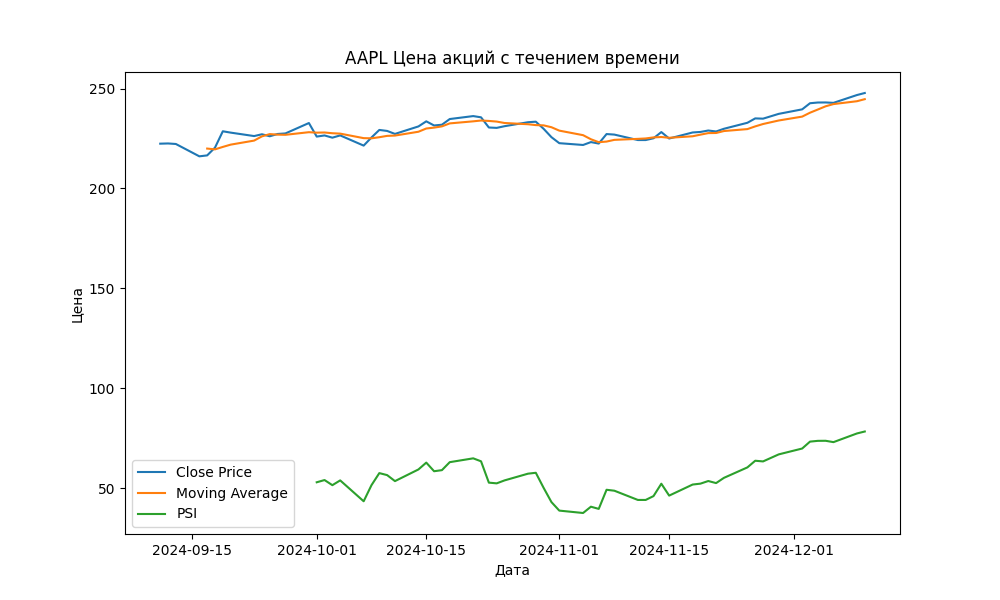
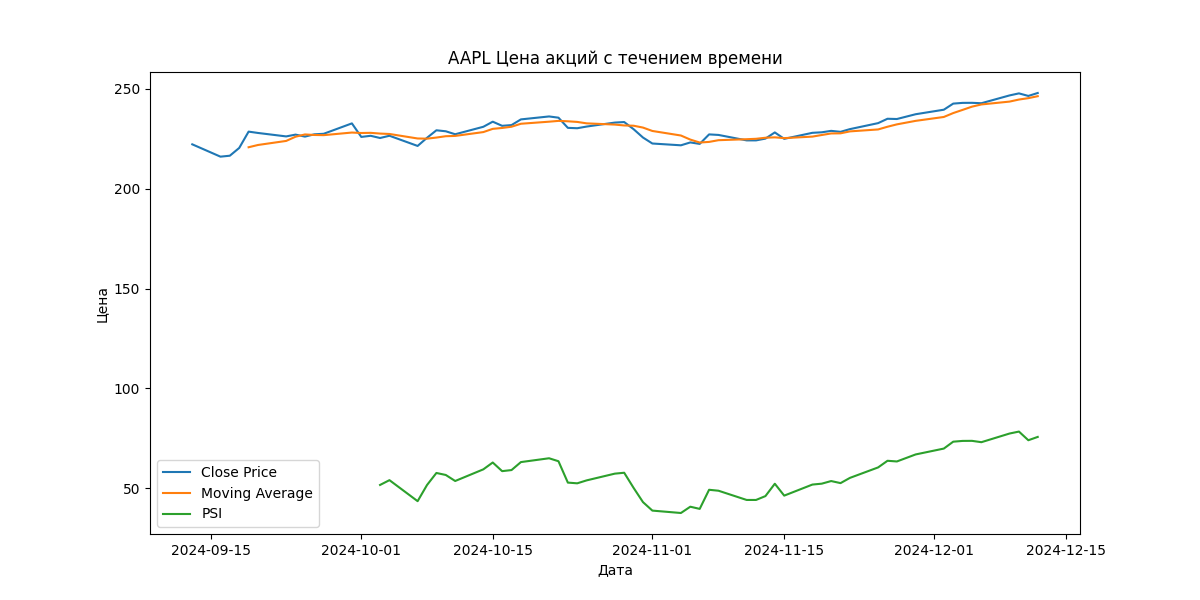
Проект 1, Finance analyzer, task 5: - Manual period setting added (start/end dates)

diff --git a/Проект 1/main.py b/Проект 1/main.py
@@ -1,5 +1,6 @@
 import data_download
 import data_plotting as dplt
+import time
 from utils import *
 
 
@@ -7,12 +8,18 @@ def main():
     print("Добро пожаловать в инструмент получения и построения графиков биржевых данных.")
     print("Вот несколько примеров биржевых тикеров, которые вы можете рассмотреть: AAPL (Apple Inc), GOOGL (Alphabet Inc), MSFT (Microsoft Corporation), AMZN (Amazon.com Inc), TSLA (Tesla Inc).")
     print("Общие периоды времени для данных о запасах включают: 1д, 5д, 1мес, 3мес, 6мес, 1г, 2г, 5г, 10л, с начала года, макс.")
+    print("                                     Соответственно: 1d, 5d, 1mo, 3mo, 6mo, 1y, 2y, 5y, 10y, ytd, max")
 
-    ticker = input("Введите тикер акции (например, «AAPL» для Apple Inc):»")
-    period = input("Введите период для данных (например, '1mo' для одного месяца): ")
+    ticker = input("/nВведите тикер акции (например, «AAPL» для Apple Inc):»")
+
+    invalid_input = True
+    while invalid_input:
+        input_msg = "Введите период для данных (например, '1mo' для одного месяца) или границы периода (например: 2024-01-01 2024-04-20): "
+        user_input = parse_period_input(input(input_msg))
+        invalid_input = not user_input['input_is_valid']
 
     # Fetch stock data
-    stock_data = data_download.fetch_stock_data(ticker, period)
+    stock_data = data_download.fetch_stock_data(ticker, user_input['period'], user_input['start'], user_input['end'])
 
     # Add moving average to the data
     stock_data = data_download.add_moving_average(stock_data)
@@ -21,7 +28,7 @@ def main():
     stock_data = data_download.add_rsi(stock_data)
 
     # Plot the data
-    dplt.create_and_save_plot(stock_data, ticker, period)
+    dplt.create_and_save_plot(stock_data, ticker, user_input['period'])
 
     # View average price
     calculate_and_display_average_price(stock_data)
@@ -32,6 +39,34 @@ def main():
 
     # Write data to csv file
     export_data_to_csv(stock_data, 'stock_data.csv')
+
+
+def parse_period_input(user_input: str) -> dict:
+    result = {
+        'input_is_valid': False,
+        'period': None,
+        'start': None,
+        'end': None
+    }
+
+    valid_periods = ('1d', '5d', '1mo', '3mo', '6mo', '1y', '2y', '5y', '10y', 'ytd', 'max')
+    if user_input in valid_periods:
+        result['input_is_valid'] = True
+        result['period'] = user_input
+
+    try:
+        start_date, end_date = user_input.split()
+        valid_date = time.strptime(start_date, '%Y-%m-%d')
+        valid_date = time.strptime(end_date, '%Y-%m-%d')
+
+        result['input_is_valid'] = True
+        result['start'] = start_date
+        result['end'] = end_date
+
+    except ValueError:
+        return result
+
+    return result
 
 
 if __name__ == "__main__":

diff --git a/Проект 1/data_plotting.py b/Проект 1/data_plotting.py
@@ -3,7 +3,7 @@ import pandas as pd
 
 
 def create_and_save_plot(data, ticker, period, filename=None):
-    plt.figure(figsize=(10, 6))
+    plt.figure(figsize=(12, 6))
 
     if 'Date' not in data:
         if pd.api.types.is_datetime64_any_dtype(data.index):
@@ -26,7 +26,7 @@ def create_and_save_plot(data, ticker, period, filename=None):
     plt.legend()
 
     if filename is None:
-        filename = f"{ticker}_{period}_stock_price_chart.png"
+        filename = f"{ticker}_{period if period else 'period'}_stock_price_chart.png"
 
     plt.savefig(filename)
     print(f"График сохранен как {filename}")

diff --git a/Проект 1/data_download.py b/Проект 1/data_download.py
@@ -3,9 +3,10 @@ import pandas_ta
 import yfinance as yf
 
 
-def fetch_stock_data(ticker, period='1mo'):
+def fetch_stock_data(ticker, period: str = None, start: str = None, end: str = None):
     stock = yf.Ticker(ticker)
-    data = stock.history(period=period)
+    data = stock.history(period=period, start=start, end=end)
+    # data = stock.history(start='2024-01-24', end='2024-04-24')
     return data
 
 
@@ -25,3 +26,5 @@ def add_rsi(data: pandas.DataFrame, length: int = 14) -> pandas.DataFrame:
 
     data['RSI'] = pandas_ta.rsi(data['Close'], length=length)
     return data
+
+
